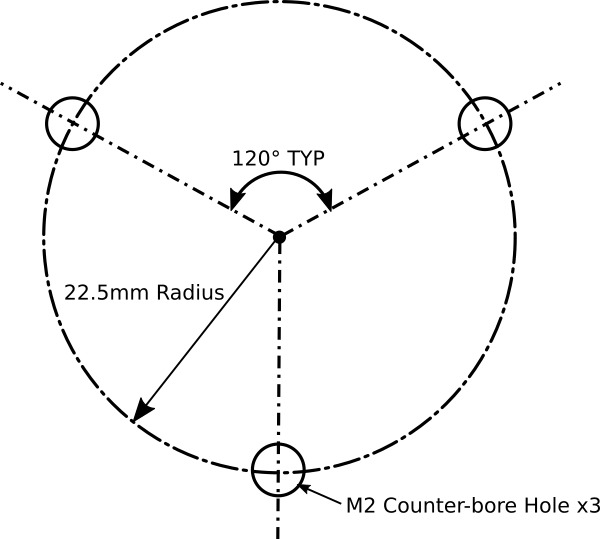
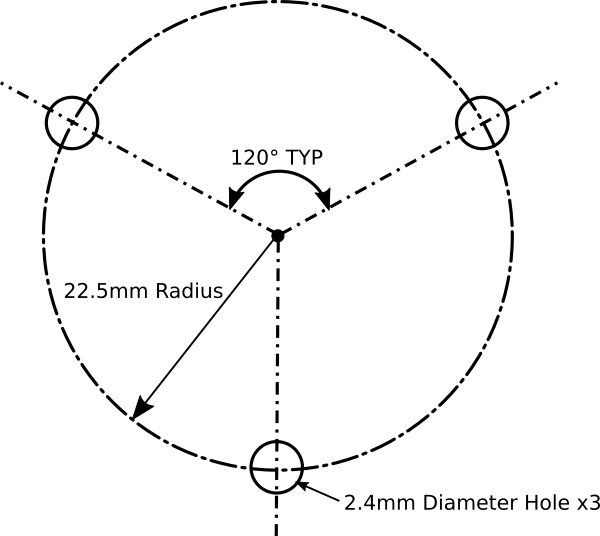
Made a proofreading pass of the documentation

diff --git a/docs/electrical/assemble.md b/docs/electrical/assemble.md
@@ -8,7 +8,7 @@
 
 ## Introduction
 
-Once the PCB and electrical components have been obtained, the components can be soldered onto the board. Orientation of these components, especially the microswitch are important. Pay special attention to the position of the plunger when the switch is placed on the board.
+Once the PCB (printed circuit board) and electrical components have been obtained, the components can be soldered onto the board. Orientation of these components is important, and will be explained below.
 
 ## Step 1: Placing Parts
 
@@ -22,7 +22,7 @@ Notice that the barrel connector opening on the audio connector hangs over the e
 
 ![Electrical Connector That Is Not Seated Properly](../images/electrical_gap_between_audio_connector_and_board.jpg)
 
-It is best if the audio connector body is flush with the surface of the PCB so that the collar can take some of the pressure off of the solder joints when the user is plugging in an audio connector. However, the solder joints should be strong enough to hold the connector in place under normal use connections.
+It is best if the audio connector body is flush with the surface of the PCB so that the collar can take some of the pressure off of the solder joints when the user is plugging in an audio connector. However, the solder joints should be strong enough to hold the connector in place under normal use conditions.
 
 If the audio connector's barrel is interfering and you want to prevent that, you can file a notch in the board directly below the barrel connector. The notch only needs to be 1 millimeter deep and 3 millimeters wide, so be careful not to make it excessively deep, or damage the solder mask, traces, or pads on the board.
 
@@ -32,17 +32,17 @@ This design flaw will be fixed in later revisions.
 
 ## Notes on Microswitch Placement
 
-The plunger of the microswitch, which is the part that gets pressed so that the switch activates, must be oriented as shown in the image above. The microswitch has two modes of operation. The first is normally open (NO), where the microswitch will not activate and let current flow until the plunger is pushed down. The second is normally closed (NC), where the microswitch will be activated (let current flow) until the plunger is pushed. The push button switch is designed to operate in the normally open configuration, and so the switch must be oriented as shown above so that the correct pins are connected. If the microswitch is turned 180 degrees, the switch will not operate properly.
+The plunger of the microswitch, which is the part that gets pressed so that the switch activates, must be oriented as shown in the image at the top of the documentation. The microswitch has two modes of operation. The first is normally open (NO), where the microswitch will not activate and let current flow until the plunger is pushed down. The second is normally closed (NC), where the microswitch will be activated (let current flow) until the plunger is pushed. The push button switch is designed to operate in the normally open configuration, and so the switch must be oriented as shown above so that the correct pins are connected. If the microswitch is turned 180 degrees, the switch will not operate properly. The incorrect orientation will also put the plunger in the wrong position to be depressed by the stem of the switch when the cap is pressed down.
 
 ## Step 2: Secure the Components to the PCB
 
-The components will likely fall out if the PCB is flipped without securing them first. This can be done using a piece of tape placed over the component (never between it and the circuit board) on the top side of the board. Masking tape is likely the best type of tape to use for this purpose. Try to get the components as square (aligned) with the edge of the PCB as possible when securing them.
+The components will likely fall out if the PCB is flipped for soldering without securing them first. This can be done using a piece of tape placed over the component (never between it and the circuit board) on the top side of the board. Masking tape is likely the best type of tape to use for this purpose. Try to get the components as square (aligned) with the edge of the PCB as possible when securing them.
 
 ![Tape On Components to Secure Them](../images/electrical_components_secured_with_tape.jpg)
 
-A small amount of hot glue can also be used, but caution must be used to keep from overheating and melting the parts. It is also important not to use something permanent like super glue.
+A small amount of hot glue can also be used to hold the components in place, but caution must be used to keep from overheating and melting the parts. It is also important not to use something permanent like super glue.
 
-If many of these boards need to be assembled over time, it may be worth investing in a PCB assembly frame like [this one](http://www.fortex.co.uk/product/pcb-assembly-jig-pcsa1/) or, better yet, building your own such as [this 3D printed one](https://www.printables.com/model/154975-circuit-board-assembly-holder) or [this aluminum extrusion one](https://www.nutsvolts.com/magazine/article/september2011_Collier).
+If many of these boards need to be assembled over time, it may be worth investing in a PCB assembly frame like [this one](http://www.fortex.co.uk/product/pcb-assembly-jig-pcsa1/) or, better yet, building your own such as [this 3D printed one](https://www.printables.com/model/154975-circuit-board-assembly-holder) or [this aluminum extrusion unit](https://www.nutsvolts.com/magazine/article/september2011_Collier).
 
 ## Step 3: Flip the PCB and Solder
 
@@ -69,10 +69,10 @@ Once the circuit board is complete, and if you have a digital multimeter (DMM), 
 
 ![Mono Audio Cable Plugged into PCB](../images/electrical_mono_audio_cable_plugged_in.jpg)
 
-The plunger is highlighted in the previous picture because it can be pressed to close the switch once the DMM is connected.
+The plunger is highlighted in the previous picture because it can be pressed to close the switch for the test once the DMM is connected.
 
-A DMM can be connected to the two terminals shown below. One on the tip, and one on the sleeve.You are just connecting continuity, so the polarity will not matter.
+A DMM can be connected to the two terminals shown below. One on the tip, and one on the sleeve.You are just checking continuity, so the polarity will not matter.
 
 ![Terminals of Mono Audio Connector](../images/electrical_terminals_of_mono_audio_connector.jpg)
 
-Set the DMM to the continuity check setting and then press the plunger on the microswitch, which is highlighted above. If the DMM shows continuity, the electrical assembly is working correctly.
+Set the DMM to the continuity check setting and then press the plunger on the microswitch, which is highlighted in the first image in this section. If the DMM shows continuity, the electrical assembly is working correctly.

diff --git a/docs/assembly/assemble.md b/docs/assembly/assemble.md
@@ -53,7 +53,7 @@ Notice how the screw heads are aligned with the cutout in the body of the switch
 
 The rubber bands suspend the cap within the body of the switch, and stand in for something like a metal coil spring. A small size of rubber bands are used here, but there are other sizes of rubber bands or windings that may also work. This is just the configuration that has been found to work the best in testing.
 
-**WARNING:** The rubber bands are typically used in dental applications and may contain latex. If you have a latex allergy, take the proper precautions such as wearing gloves. The rubber bands will be enclosed within the switch after it is fully assembled and should not come in contact with the user during normal operation.
+**WARNING:** The rubber bands are typically used in dental applications and may contain latex. If you have a latex allergy, take the proper precautions such as wearing gloves. The rubber bands will be enclosed within the switch after it is fully assembled and should not come in contact with the user during normal operation. However, this inclusion of latex should always been noted.
 
 Using a pair of tweezers, loop a [1/4 Inch Heavy Rubber Band]{Qty:4} between one of the pegs on the rubber band mounts and the peg on the switch body. This can take some patience, but the pegs are tapered so that the rubber bands will not slip off during use. The first set of pegs with the (orange) rubber band on it should look like the following.
 
@@ -81,7 +81,7 @@ The bottom of the assembly should now look like the following.
 
 ![Bottom of Completed Assembly](../images/assembly_bottom_attached.jpg)
 
-The assembly is now complete. A mono audio cable can be plugged into the audio connector on the PCB through the cutout in the cutout in the body. The other end of the audio cable can then be plugged into a switch adapter for testing.
+The assembly is now complete. A mono audio cable can be plugged into the audio connector on the PCB through the cutout in the body. The other end of the audio cable can then be plugged into a switch adapter for testing.
 
 ![Mono Audio Cable Plugged In](../images/assembly_mono_audio_cable_plugged_in.jpg)
 
@@ -89,23 +89,23 @@ Once tested, the switch should be ready to use.
 
 ## Step 7: Attaching a Base
 
-The switch will work fine as it is without a base, but there is no mechanism for mounting the switch. Also, the screws that secure the PCB to the switch bottom can sometimes stick out just enough to scratch the surface of a desk. Rubber feed can be used on the bottom of the switch in place of a base, but in most cases some sort of base 
+The switch will work fine as it is without a base, but there is no mechanism included for mounting the switch. Also, the screws that secure the PCB to the switch bottom can sometimes stick out just enough to scratch the surface of a desk. Rubber feed can be used on the bottom of the switch in place of a base, but in most cases some sort of base is helpful.
 
-There are two sample bases included with this design, and it is hoped that the community will develop more over time. The switch is designed so that bases can be interchangeable and easy to swap. The two sample bases for this design are in the [STL zip file](http://7bindustries.com/static/downloads/push_button_switch/v1/push_button_switch_stl_files.zip). The file names are below.
+There are two sample bases included with this design, and it is hoped that the community will develop more over time. The switch is designed so that bases can be interchangeable and easy to swap. There are two sample bases included with this design, and those are in the [STL zip file](http://7bindus/v1/push-button-switch-stl-files.zip). The file names are below.
 
 * sample_base_straight.stl
 * sample_base_flange.stl
 
-The "straight" base is meant for use on a desktop. It has a smooth bottom and no mounting holes other than the 3 used to attach it to the switch bottom. An [M2x8mm Socket Head Screw]{Qty:3} screw is used in each of the 3 holes, and tightened with the [1.5mm Hex Wrench]{Qty:1}. The following image highlights the mounting holes in the switch bottom and the matching holes in the base.
+The "straight" base is meant for use on a desktop. It has a smooth bottom and no mounting holes other than the 3 used to attach it to the switch bottom. An [M2x8mm Socket Head Screw]{Qty:3} screw is used in each of the 3 holes, and are tightened with the [1.5mm Hex Wrench]{Qty:1}. The following image highlights the mounting holes in the switch bottom and the matching holes in the base.
 
 ![Base Mounting Holes in Bottom with Matching Holes In Base](../images/assembly_base_mounting_holes_in_bottom_and_matching_holes_in_base.jpg)
 
-The following image shows the straight base (orange) attached to a switch. 
+The following images show the straight base (orange) attached to a switch. 
 
 ![Straight Base Attached to Switch Bottom](../images/assembly_straight_base_attached_to_bottom.jpg)
 ![Switch with Straight Base Attached on a Desktop](../images/assembly_switch_with_straight_base_attached_on_a_desktop.jpg)
 
-If the screws to not tighten and pull the base up to the switch bottom, make sure that you installed the captive nuts properly per the instructions on the [Captive Nut Instructions](../mechanical/captive_nuts.md).
+If the screws to not tighten and pull the base up to the switch bottom, make sure that you installed the captive nuts properly in the switch bottom per the instructions in the [Captive Nut Instructions](../mechanical/captive_nuts.md).
 
 The "flange" base has a lip that runs around the outside of the switch with holes all around it. The intention is for the flange to make it easier to mount the switch to a wheelchair or a bed.
 

diff --git a/docs/electrical/pcb.md b/docs/electrical/pcb.md
@@ -1,4 +1,7 @@
+[Printed Circuit Board]:Parts.yaml#PrintedCircuitBoard
 # PCB Manufacture
+
+The [Printed Circuit Board]{Qty:1} (PCB) for the switch must be manufactured before the switch can be assembled and used in its default configuration. This is normally done by sending the manufacturing files to a vendor, such as OSHPark and then waiting for the finished boards to be shipped.
 
 ![Board Manufactured by OSHPark](../images/OSHPark_Manufactured_Board.jpg)
 
@@ -6,33 +9,33 @@
 
 All of the files necessary to have the printed circuit board (PCB) manufactured are available as a zip file for download [here](https://7bindustries.com/static/downloads/push_button_switch/v1/push_button_switch_grb.zip). If a manufacturer such as OSHPark is being used, the KiCAD project file can be uploaded directly. That file can be downloaded [here](https://raw.githubusercontent.com/7B-Things/push-button-switch/main/pcb/push-button-switch/push-button-switch.kicad_pcb) (right click and select `Save Link As`). Instructions on uploading files for every manufacturer is beyond the scope of this documentation, but OSHPark will be offered as an example. This is not a direct endorsement of OSHPark, although 7B Industries does use OSHPark to produce finished PCBs.
 
-### Step 1 - Account Login
+### Step 1: Account Login
 
 Navigate to [oshpark.com](https://oshpark.com/) and [create an account](https://oshpark.com/users/sign_in) or log in.
 
-### Step 2 - Upload Files
+### Step 2: Upload Files
 
-The OSHPark website has an area where the KiCAD project file can be dragged and dropped. Alternatively, users can click the `BROWSE FOR FILES` button and upload the file through their operating system's file manager.
+The OSHPark landing page has an area where the KiCAD project file can be dragged and dropped. Alternatively, users can click the `BROWSE FOR FILES` button and upload the file through their web browser's file manager.
 
 The file should upload, be processed, and then an `About your board` page will load. Initial information such as the cost of manufacturing should be displayed.
 
-### Step 3 - Click Through the Board Confirmation Screens
+### Step 3: Click Through the Board Confirmation Screens
 
 The default settings should be fine for this design. Click the `Continue` button to advance past the `About your board` page.
 
 The next page that will be loaded is called `Verify your design`. Scroll down through the images shown of the board just to make sure that nothing obvious is wrong. Once at the bottom of the page, click the `Order` button.
 
-### Step 4 - Ordering
+### Step 4: Ordering
 
 The rest of the process is typical of most online shopping carts. There is no need to add any of the optional services such as "2 oz copper" unless you want to. Check out, enter the shipping information, and pay. 
 
-### Step 5 - Wait
+### Step 5: Wait
 
 When ordering PCBs from online manufacturers, it often takes weeks to receive the finished boards. It is also a good idea to check to see if there will be any import fees that are due. Selecting a manufacturer that is closer to your location may help avoid unnecessary import duties. 
 
 ## Isolation Routing (Optional Advanced DIY Manufacturing)
 
-The PCB has been laid out in such a way that it is possible to use isolation routing on a CNC machine to manufacture it. That is how the initial prototypes are made by 7B Industries. This method should not be attempted unless the user is familiar with CNC machines. This method only provides a board with the proper traces, and does not include solder mask and silkscreen.
+The PCB has been laid out in such a way that it is possible to use isolation routing on a CNC machine to manufacture it. That is how the initial prototypes are made by 7B Industries. This method should not be attempted unless the user is familiar with CNC machines. This method only provides a board with the proper traces, and does not include solder mask or silkscreen.
 
 When isolation routing is attempted, use a v-shaped engraving bit set to the appropriate depth. The "appropriate depth" will vary based on the exact bit used and the copper thickness on the copper clad board, and may take some experimentation to determine. The traces have 0.508 mm of clearance around them, so by setting the proper depth of the bit and the width of the tool to 0.508 mm, it should be possible to route the board in a single pass. Experimentation is often needed to complete this process effectively though, and is attempted at your own risk.
 

diff --git a/docs/designing_custom_bases.md b/docs/designing_custom_bases.md
@@ -4,19 +4,19 @@
 
 The push button switch is designed so that custom bases for different use cases can be created. It is hoped that the community will share these with each other through sites like [Printables](https://www.printables.com/), [Thingiverse](https://www.thingiverse.com/) and [GitHub](https://github.com/).
 
-The instructions below are meant to help get someone started creating their own switch bases. A willingness to learn, and access to a 3D printer and CAD software such as [FreeCAD](https://www.freecadweb.org/), [TinkerCAD](https://www.tinkercad.com/) or [Fusion360](https://www.autodesk.com/products/fusion-360/overview) is all that is needed. If you have comments or questions, please feel free to join the [switch forum topic](https://discourse.7bindustries.com/t/push-button-switch-discussion/29) or [mailing list](https://groups.io/g/7bhardware).
+The instructions below are meant to help get someone started creating their own switch bases. A willingness to learn, as well as access to a 3D printer and CAD software such as [FreeCAD](https://www.freecadweb.org/), [TinkerCAD](https://www.tinkercad.com/) or [Fusion360](https://www.autodesk.com/products/fusion-360/overview) is all that is needed. If you have comments or questions, please feel free to join the [switch forum topic](https://discourse.7bindustries.com/t/push-button-switch-discussion/29) or [mailing list](https://groups.io/g/7bhardware).
 
 ## Base Dimensions
 
 Bases can be designed in any way, but some sample dimensions are given for the straight base that is included with the design.
 
-The straight base has the same diameter as the switch bottom, with no overhang. This means that the base is 75mm in diameter, or 37.5mm in radius. Other dimensions can be used if overhang is desired, which is the case in the flange base.
+The straight base has the same diameter as the switch bottom, with no overhang. This means that the base is 75mm in diameter, or 37.5mm in radius. Other dimensions can be used if overhang is desired, which is the case with the flange base.
 
-The bottom of the push button switch has 3 holes in a pattern, with captive nuts on the opposite side (assuming that they were installed by the builder). The following sketch shows how the holes are laid out.
+The bottom of the push button switch has 3 holes in a pattern, with captive nuts on the opposite side (assuming that they were installed by the builder). The following sketch shows how the holes are laid out in a base to match.
 
 ![Base Mounting Hole Pattern Sketch](./images/base_design_base_hole_pattern_sketch.png)
 
-What this sketch means in words is that the hole pattern can be laid out in a polar (aka radial or circular) pattern every 120 degrees, with a pattern radius of 22.5mm. If the holes are laid out this way, they should mate properly to the switch bottom. If your base has an orientation to it, be sure that when installed the base and the cable cutout on the switch body will be aligned properly. If it does not fit your intention, you can shift the starting value of the array by any angle needed to make the base and the switch cable cutout align properly.
+What this sketch means in words is that the hole pattern can be laid out in a polar (aka radial or circular) pattern every 120 degrees, with a pattern radius of 22.5mm. If the holes are laid out this way, they should mate properly to the switch bottom. If your base has an orientation to it, be sure that when installed the base and the cable cutout on the switch body will be aligned properly. If it does not fit your intention, you can shift the starting angle of the array by any value needed to make the base and the switch cable cutout align properly.
 
 ## Relief Areas
 

diff --git a/docs/mechanical/clean_up_prints.md b/docs/mechanical/clean_up_prints.md
@@ -5,7 +5,7 @@
 
 {{BOM}}
 
-The parts should almost be ready to assemble. However, there is often some overflow plastic in the holes, nut traps, or counter-bore holes. Also, some holes may not be round and may be hard to press the screws through. These areas should be cleaned up before doing the assembly step.
+The parts should almost be ready to assemble. However, there is often some extra plastic in the holes, nut traps, or counter-bore holes. These areas should be cleaned up before doing the assembly step.
 
 ## Extra Plastic in Counter-Bore
 
@@ -17,7 +17,7 @@ Most plastic strings are easy to remove with [Tweezers]{Qty:1, Cat:Tool}. The st
 
 ## Non-Round Hole
 
-Sometimes plastic will ooze when it should not, and can string across open areas. 3D printers also approximate round holes as a series of lines around a perimeter, so the holes are more like very detailed polygons when viewed closely enough. Most of the time there is no issue with the roundness of a hole, but sometimes the hole is bad enough that it will not let a bolt pass through.
+Sometimes plastic will ooze during a move of the print head when it should not, and can string across open areas. Most of the time there is no issue with the roundness of a hole, but sometimes the hole is bad enough that it will not let a bolt pass through.
 
 ![Hole That Is Not Quite Round](../images/mechanical_non_round_hole.jpg)
 
@@ -25,10 +25,10 @@ In this case, a drill bit can be used to clean up the hole. Be careful not to fo
 
 ## Extra Plastic in Nut Trap
 
-Captive nuts are used throughout this design instead of heatset inserts or simply threading into the plastic. This ensures a durable design without the complications that using heatset inserts can cause. Sometimes there is excess plastic inside the pockets that hold the nuts which can prevent the nuts from pulling down all the way into the pocket. This should be cleaned out with tweezers.
+Captive nuts are used throughout this design instead of heatset inserts or simply threading into the plastic. This ensures a durable design without the complications that using heatset inserts can cause. Sometimes there is excess plastic inside the nut pockets which can prevent the nuts from pulling all the way down into the pocket. This should be cleaned out with tweezers.
 
 ![Extra Plastic in Nut Pockets](../images/mechanical_plastic_in_nut_pockets.jpg)
 
-## Extra Plastic in Hole
+## Light Plastic Strings in Hole
 
-There can sometimes be plastic strings in bolt holes. If the strings are small and light, there is a good chance that they will not cause problems. As long as you are able to insert the bolt into the hole, these can be left alone.
+There can sometimes be plastic strings in bolt holes. If the strings are small and light, there is a good chance that they will not cause problems. As long as you are able to insert the bolt into the hole, these can usually be left alone.

diff --git a/docs/mechanical/captive_nuts.md b/docs/mechanical/captive_nuts.md
@@ -5,7 +5,7 @@
 [1.5mm Hex Wrench]:Tools.yaml#HexWrench_1.5mm
 # Add Captive Nuts
 
-This design uses captive nuts instead of threading bolt directly into the plastic, or using heatset inserts. Threading screws directly into plastic, even if the plastic is tapped, makes for a weak connection because the plastic threads strip out easily. Heatset inserts create a very strong connection, but are hard to install squarely into a hole, and tend to cause distortion of the plastic around the insertion site, such as mounding.
+This switch design uses captive nuts instead of threading screws directly into the plastic, or using heatset inserts. Threading screws directly into plastic, even if the plastic is tapped, makes for a weak connection because the plastic threads strip out easily. Heatset inserts create a very strong connection, but are hard to install squarely into a hole, and tend to cause distortion of the plastic around the insertion site, such as mounding.
 
 The M2 nuts will be pulled down into their pockets in this step so that the assembly step can happen more smoothly later.
 
@@ -29,7 +29,7 @@ These are the same holes viewed from the top side.
 
 ![PCB Captive Nut Locations Viewed From the Top Side](../images/mechanical_pcb_mount_nut_pocket_locations_top_view.jpg)
 
-Insert the nut puller screw through the top side of the bottom part, and thread and [M2 Captive Nut]{Qty: 4} onto the end. Thread the nut on until it comes in contact with the pocket.
+Insert the nut puller screw through the top side of the bottom part, and thread an [M2 Captive Nut]{Qty: 4} onto the end. Thread the nut on until it comes in contact with the pocket.
 
 ![Puller Screw Inserted Through Top of Bottom Part of Switch](../images/mechanical_puller_screw_inserted_through_top_of_bottom_part.jpg)
 ![Nut Threaded On and In Contact With Pocket](../images/mechanical_nut_threaded_on_and_in_contact_with_pocket.jpg)
@@ -52,7 +52,7 @@ When all captive nuts are installed, the bottom should look something like this.
 
 There are three holes in the switch bottom which will be used later to attach a mounting base. The intention is for these bases to be designed and printed for each use case. Examples might be a v-block base for mounting the switch to a metal tube, or a flat base with pockets where double stick tape can be applied.
 
-The three mounting base holes are highlighted below.
+The three mounting base captive nut pockets are highlighted below.
 
 ![Mounting Base Captive Nut Locations](../images/mechanical_mounting_captive_nut_locations.jpg)
 

diff --git a/docs/index.md b/docs/index.md
@@ -2,13 +2,15 @@
 
 ## Introduction
 
-This is a 3D printed switch for many uses, including controlling a computer when used with screen scanning software.
+This is a 3D printed switch for many uses, including controlling a computer when used with a switch adapter and screen scanning software.
 
 ![Push Button Switch](images/push_button_switch_gallery.png)
 
 There are multiple modes for screen scanning software. In one mode, the screen scanner will move between user interface elements and allow the user to press the button to activate or select one. Onscreen keyboards can oftentimes be used in this way. In another mode, quadrants of the screen are scanned. A user waits until the scanner box reaches the desired part of the screen and then presses the button. The screen scanning software then narrows down its search that that part of the screen and the process begins again until the desired user interface element can be selected.
 
 There are three main sections of this documentation: mechanical, electrical and final assembly. The mechanical documentation covers 3D printing all the parts, as well as sourcing and installing fasteners. The electrical section covers the custom circuit board and the components that go on it. The final assembly section explains how to fit all of the parts together into the completed switch. The electrical assembly and mechanical sections must be completed before the final assembly can be attempted.
+
+In addition to these sections, there is a section on creating custom bases so that the switch can be adapted and mounted as needed.
 
 If you have comments or questions while printing, assembling or using this switch, please feel free to join the [switch forum topic](https://discourse.7bindustries.com/t/push-button-switch-discussion/29) or [mailing list](https://groups.io/g/7bhardware).
 

diff --git a/docs/mechanical/print.md b/docs/mechanical/print.md
@@ -16,7 +16,7 @@ Once that file has been download and the STLs have been extracted, the parts can
 
 Almost any [3D Printer]{Qty:1, Cat: Tool} can be used for printing these parts as long as the printer has a large enough print volume and can achieve the proper amount of detail. For reference, the prototypes were printed on a Prusa i3 Mk2 with a 0.4mm nozzle. Both PLA or PETG types of [Filament]{Qty:20m} have been used to print these parts. PETG will produce more durable parts but is not required.
 
-None of these parts should need supports, but it is usually a good idea to print them with a brim. Using a brim will help maintain flatness on the 3D printer bed during the print. The print settings that were used on the prototypes was a 0.2mm layer height, no support, 20% infill, and the brim was enabled.
+None of these parts should need supports, but it is usually a good idea to print them with a brim. Using a brim will help maintain flatness on the 3D printer bed during the print. The print settings that were used on the prototypes was a 0.2mm layer height, no support, 20% infill, and the brim was enabled. Some of the parts in the STL are not oriented for printing by default. All parts are designed so that the larger flat surface should be placed on the print bed, with no supports needed.
 
 One other setting that is not required but that can help with durability is to increase the number of perimeters, if your software supports it. On the prototypes, the number of perimeters was increased from 2 to 4.
 

diff --git a/docs/electrical/components.md b/docs/electrical/components.md
@@ -3,7 +3,7 @@
 [Mono Audio Cable]:Parts.yaml#MonoAudioCable
 # Order Components
 
-There are two off-the-shelf components that must be ordered in order to assemble the circuit board. The first is an [Audio Jack]{Qty:1}, and the second is a [Microswitch]{Qty:1}. There is also a [Mono Audio Cable]{Qty:1} that is not needed to assemble the circuit board, but will be needed later to connect the switch to a switch adapter. That is shown in the bill of materials at the bottom of this page so that it can be ordered along with the other components.
+There are two off-the-shelf components that must be ordered in order to assemble the circuit board. The first is an [Audio Jack]{Qty:1}, and the second is a [Microswitch]{Qty:1}. There is also a [Mono Audio Cable]{Qty:1} that will be needed later to connect the switch to a switch adapter.
 
 ![Audio Jack](../images/electrical_audio_jack.jpg)
 ![Micro switch](../images/electrical_microswitch.jpg)
